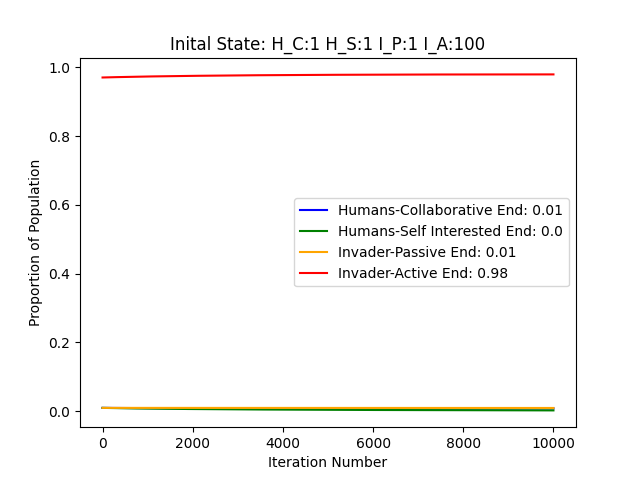
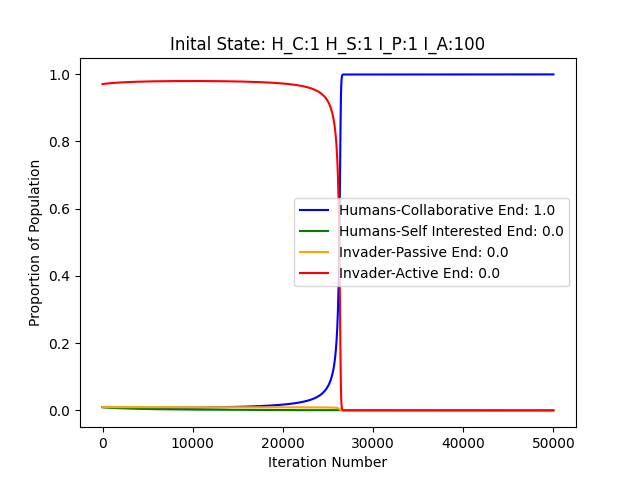
Update 2 images

diff --git a/Population-Game.py b/Population-Game.py
@@ -19,52 +19,52 @@ ATTACK = 5 # Cost of Attacking from Invader
 BLOCK = 2
 
 # Simulation Settings 
-NUM_ITERATIONS = 10_000
+NUM_ITERATIONS = 50_000
 DT = .001
 
 
 # Setting up different learning rate cases
 CASES = [
-{"human_collab": 1,
-"human_self_interested":1,
-"invader_passive":1,
-"invader_active":1
-}, 
-{"human_collab": 1,
-"human_self_interested":10,
-"invader_passive":1,
-"invader_active":1
-}, 
-{"human_collab": 1,
-"human_self_interested":100,
-"invader_passive":1,
-"invader_active":1
-}, 
-{"human_collab": 10,
-"human_self_interested":1,
-"invader_passive":1,
-"invader_active":1
-}, 
-{"human_collab": 100,
-"human_self_interested":1,
-"invader_passive":1,
-"invader_active":1
-}, 
-{"human_collab": 1,
-"human_self_interested":1,
-"invader_passive":10,
-"invader_active":1
-}, 
+#{"human_collab": 1,
+#"human_self_interested":1,
+#"invader_passive":1,
+#"invader_active":1
+#}, 
+#{"human_collab": 1,
+#"human_self_interested":10,
+#"invader_passive":1,
+#"invader_active":1
+#}, 
+#{"human_collab": 1,
+#"human_self_interested":100,
+#"invader_passive":1,
+#"invader_active":1
+#}, 
+#{"human_collab": 10,
+#"human_self_interested":1,
+#"invader_passive":1,
+#"invader_active":1
+#}, 
+#{"human_collab": 100,
+#"human_self_interested":1,
+#"invader_passive":1,
+#"invader_active":1
+#}, 
+#{"human_collab": 1,
+#"human_self_interested":1,
+#"invader_passive":10,
+#"invader_active":1
+#}, 
 {"human_collab": 1,
 "human_self_interested":1,
 "invader_passive":100,
 "invader_active":1
 }, 
-{"human_collab": 1,
-"human_self_interested":1,
-"invader_passive":1,
-"invader_active":10
-}, 
+#{"human_collab": 1,
+#"human_self_interested":1,
+#"invader_passive":1,
+#"invader_active":10
+#}, 
 {"human_collab": 1,
 "human_self_interested":1,
 "invader_passive":1,
